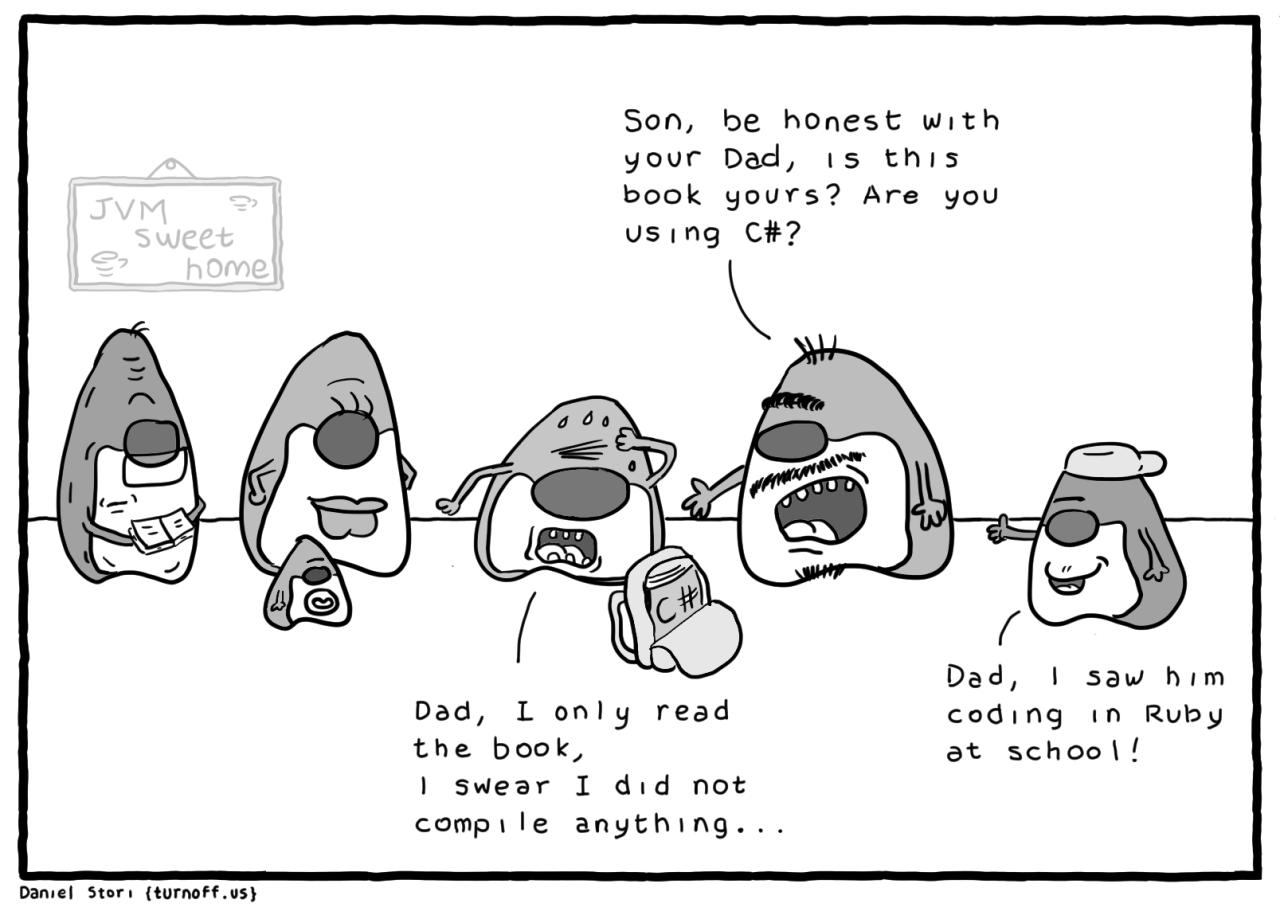
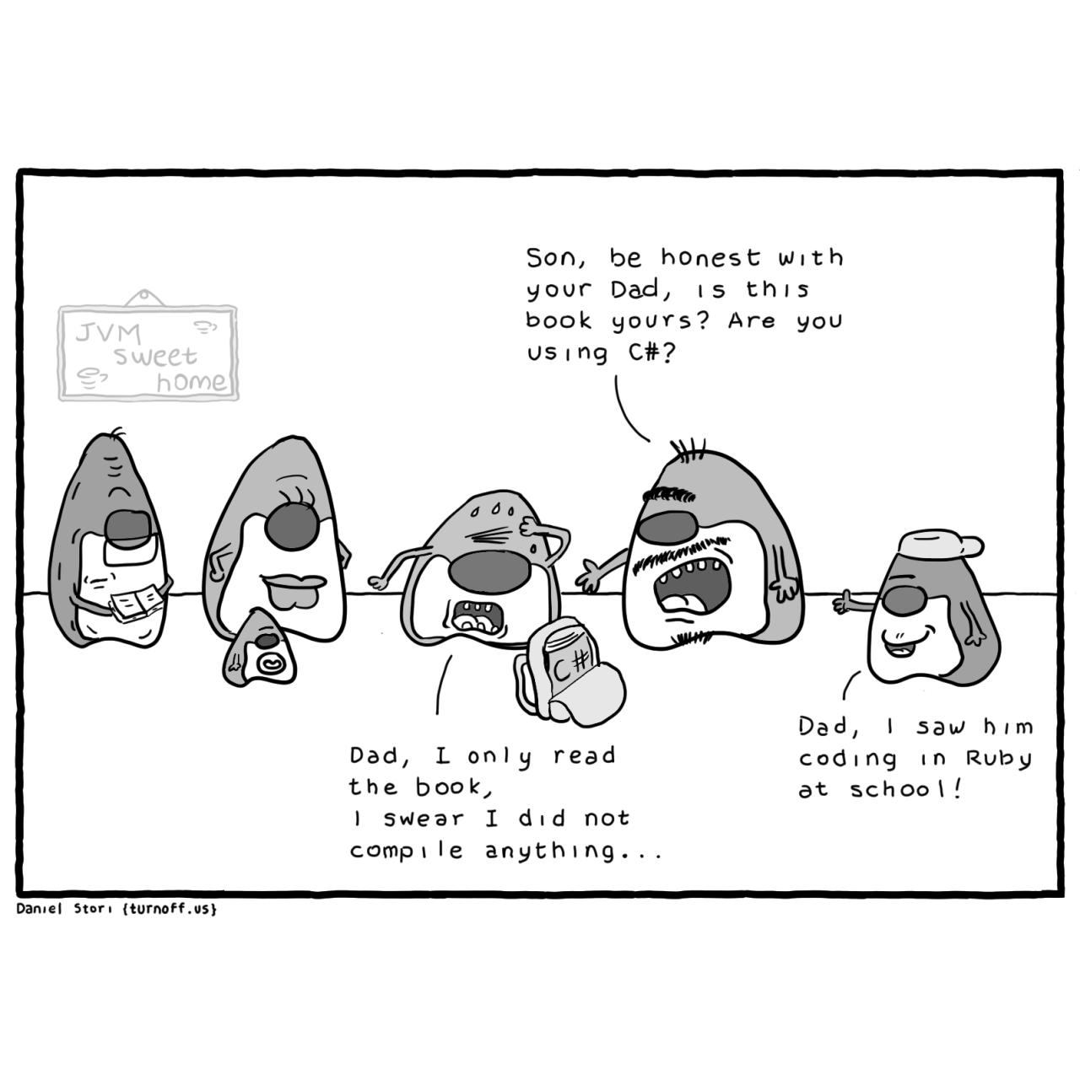
Update images and remove unnecessary files

diff --git a/main.py b/main.py
@@ -12,7 +12,7 @@ logging.basicConfig(level=logging.INFO,
 
 # set the wait time for the program
 wait = 1 
-short_wait = 0.5
+short_wait = wait / 2
 
 
 def openApp():
@@ -61,7 +61,6 @@ def meme():
         logging.info(f"step4 - Selected meme: {random_meme_name}")
         ChoseMeme(random_meme_name)
 
-# not tested below this point, need to have the correct locate images (step5, step6)
 
 def ChoseMeme(random_meme_name):
     # step 5 - get to address bar
@@ -95,31 +94,148 @@ def ChoseMeme(random_meme_name):
     logging.info('step8 done')
     pg.screenshot("screenshots/step8.png")
 
- 
+# step 9 - click next and take too caption writing
+# im not sure what step9 is doing, but it works so i don't want to mess with it. i might just be dumb and not counting properly
+# step10 is no cropping
+# step11 is no filter
 def edit():
-    clickbutton(9)
-    clickbutton(10)
-    clickbutton(11)
-    clickbutton(12)
+    for i in range(10, 12):
+        clickbutton(i)
 
 
+# step 12 - write caption
+def WriteCaption():
+    captions = [
+        "Bug squashed, another arises", 
+        "Risking it all with an update", 
+        "Break? Just switch code types", 
+        "Not a bug, a feature!", 
+        "When your code finally works on the first try!", 
+        "That moment you realize it's not a bug, just a feature", 
+        "Me, when I see a semicolon missing :o", 
+        "Sleep is for the weak; debugging is for the strong",
+        "When you finally fix that bug that's been bugging you for days",
+        "Coding is 10% writing code and 90% fixing bugs",
+        "When you finally understand recursion. Mind. Blown.",
+        "My code isn't messy; it's just creatively organized!",
+        "Sleep? I'll do that after this next commit.",
+        "Coffee: Fueling developers since the beginning of time.",
+        "I don't always test my code, but when I do, I do it in production.",
+        "When you're coding and you realize you've been talking to yourself for the past 20 minutes.",
+        "what do you mean, 'it works on my machine'?",
+        "how did this ever work?",
+        "I'm not anti-social; I'm just not user friendly.",
+        "I'm not lazy; I'm just on my energy saving mode.",
+        "Debugging: The art of finding a needle in a haystack"
+        "Code, coffee, repeat: The developer's mantra",
+        "In the world of coding, patience is a virtue",
+        "When in doubt, print it out: The coder's way",
+        "404: Sleep not found. Please debug and try again",
+        "Coding: Where the impossible becomes possible",
+        "The best error message is the one that never shows up",
+        "To err is human, to debug divine",
+        "Code like a butterfly, test like a bee",
+        "In the kingdom of code, the debugger is king",
+        "The only thing we have to fear is uncaught exceptions",
+        "Coding is thinking, not typing",
+        "The code is dark and full of errors",
+        "Keep calm and trust the debugger",
+        "Code it, break it, fix it, repeat",
+        "The closer you look, the less you see: The mystery of code",
+        "Coding: Where every character counts",
+        "May the source be with you: The coder's blessing",
+        "In the quest for perfection, we debug endlessly",
+        "Code: It's not a bug, it's an undocumented feature",
+        "Embracing the beauty of data chaos",
+        "Plot twist: Data speaks for itself",
+        "Visualizing the invisible: Data magic",
+        "In data we trust, in visualizations we marvel",
+        "Unveiling patterns, one data point at a time",
+        "When numbers become art: The power of visualization",
+        "Data whispers, visualizations shout",
+        "Lost in the scatter: Finding meaning in the chaos",
+        "A symphony of data points: Visualizing harmony",
+        "Where data and design dance together",
+        "The art of storytelling through data visualizations",
+        "Decoding the data: A visual journey",
+        "From raw data to visual poetry",
+        "Data dreams in technicolor: The magic of visualization",
+        "When dots connect: The power of visual narratives",
+        "Data alchemy: Turning numbers into gold",
+        "The language of data: Spoken in visuals",
+        "Unveiling the hidden: The art of data revelation",
+        "When data takes center stage: The visual spotlight",
+        "In the realm of visual insights: Where data comes to life"
+
+    ]
+    
+    hashtags = [
+        "#CodeHumor", "#GeekHumor", "#TechJokes", "#DevLife", 
+        "#ProgrammerLife", "#ProgrammingHumor", "#ProgrammingJokes", 
+        "#ProgrammerHumor", "#SoftwareDeveloper", "#SoftwareEngineer", 
+        "#SoftwareDevelopment", "#SoftwareEngineerLife", "#SoftwareEngineerProblems", 
+        "#SoftwareEngineerHumor", "#SoftwareEng" ,"#SoftwareEngineering", 
+        "#programming", "#joke", "#funny", "#coding", "#programmer", "#developer",         
+        "#codinglife", "#webdeveloper", "#webdevelopment", 
+        "#webdev", "#webdesign", "#webdesigner", "#webdesigning", 
+        "#webdesignlife", "#webdesignerlife", "#webdesigners", 
+        "#webdesignerslife", "#webdesignersofinstagram", "#webdesignersofinsta", 
+        "#webdesignersoftheworld", "#webdesignersoftheworld", "#webdesignersoftheworldunite",
+        "#computer", "#computers", "#computerscience", "#computersciencestudent",
+        "#python", "#pythonprogramming", "#pythonprogramminglanguage", "#pythonprogrammer",
+        "#code", "#coder", "#codingisfun", "#codingpics", "#c", "#csharp", "#csharpdeveloper",
+        "#meme", "#memes", "#memesdaily", "#memes4days", "#memes4life", "#memes4ever", "#memes4u"
+    ]
+
+    random_caption = random.choice(captions)
+    random_hashtags = [random.choice(hashtags) for _ in range(1, 4)]
+    logging.info("Choosing caption and hashtags")
+
+    # step13 - click caption box
+    clickbutton(13)
+
+    # step 14 - Write the caption
+    pg.typewrite(f"{random_caption}")
+    logging.info(f"step14 done - {random_caption}")
+    time.sleep(wait)
+
+    # Press Enter to write the hashtag on a new line
+    pg.press("enter")
+
+    # step15 - Write the hashtags
+    for i, hashtag in enumerate(random_hashtags, 1):
+        pg.typewrite(f"{hashtag} ")
+        logging.info({hashtag})
+        pg.screenshot(f"screenshots/step15{i}.png")
+        time.sleep(wait)
+
+    # Press Enter to write the disclaimer on a new line
+    pg.press("enter")
+    
+    # step16 - Write the disclaimer
+    pg.typewrite("This post was made and uploaded by a python bot :D")
+    pg.screenshot("screenshots/disclaimerWritten.png")
+
+
+# step17 - post the meme
+def postMeme():
+    clickbutton(16)
 
 """
 TO DO:
 - DRY = don't repeat yourself!!!!
 - make step3 work, comment on what and why it is not working next to it     - done/working
 - find the correct locate images for step5 and step6                        - done/working
-- test new functions and make sure they work                                -
-- continue with the rest of the steps                                       -
-- if i make all the images 1:1 i don't need to use clickbutton() for 11, 12 - testing      
+- continue with the rest of the steps                                       - 
+- if i make all the images 1:1 i don't need to use clickbutton() for 9, 10  - done/working
 """
 
 def main_sequence():
-    #openApp()
-    #Step123()
-    #meme()
-    time.sleep(4)
+    openApp()
+    Step123()
+    meme()
     edit()
+    WriteCaption()
     
 
 main_sequence()

diff --git a/ResizeMeme.py b/ResizeMeme.py
@@ -1,0 +1,54 @@
+from PIL import Image
+import logging
+import os
+
+# Set logging
+logging.basicConfig(level=logging.DEBUG,
+    format='%(asctime)s - %(levelname)s - %(message)s',
+    filename='test.log', filemode='w')
+
+def resize_and_center(input_folder, output_folder):
+    # Ensure the output folder exists
+    if not os.path.exists(output_folder):
+        os.makedirs(output_folder)
+
+    for filename in os.listdir(input_folder):
+        if filename.lower().endswith(('.png', '.jpg', '.jpeg')):
+            input_path = os.path.join(input_folder, filename)
+            output_path = os.path.join(output_folder, filename)
+
+            with Image.open(input_path) as img:
+                aspect_ratio = img.width / img.height
+
+                # Determine the new dimensions
+                if aspect_ratio > 1:
+                    new_width = 1080
+                    new_height = int(1080 / aspect_ratio)
+                else:
+                    new_width = int(1080 * aspect_ratio)
+                    new_height = 1080
+
+                # Resize the image
+                img = img.resize((new_width, new_height))
+
+                # Create a 1080x1080 image
+                new_img = Image.new("RGB", (1080, 1080), (255, 255, 255))
+
+                # Center the resized image
+                offset_x = (1080 - img.width) // 2
+                offset_y = (1080 - img.height) // 2
+                new_img.paste(img, (offset_x, offset_y))
+
+                # Save the resized image
+                new_img.save(output_path)
+                logging.info(f"Resized and centered: {filename}")
+
+if __name__ == "__main__":
+    input_folder = "memes"
+    output_folder = "memes2"
+
+    logging.critical("Starting image resize and center")
+    resize_and_center(input_folder, output_folder)
+
+    logging.critical("Images resized and centered successfully.")
+    print("done")
